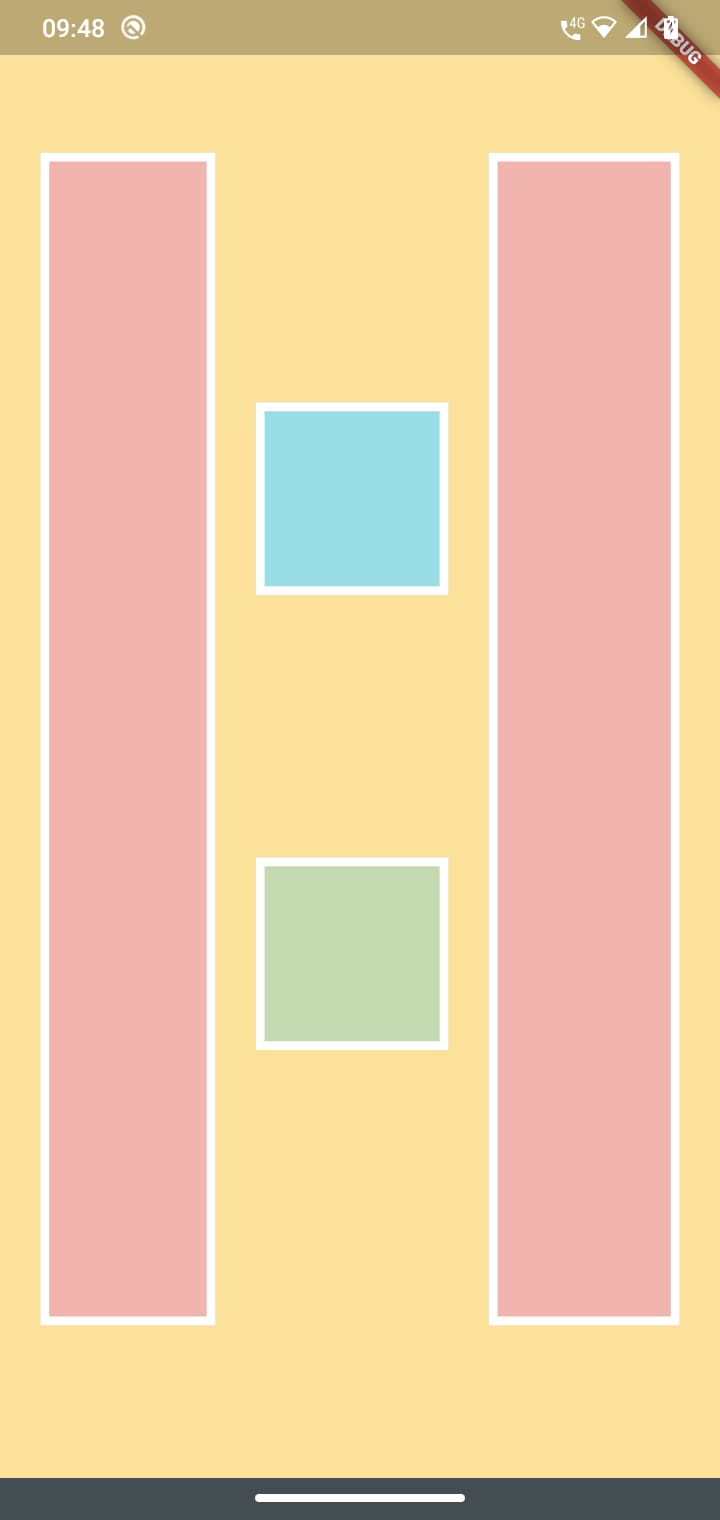
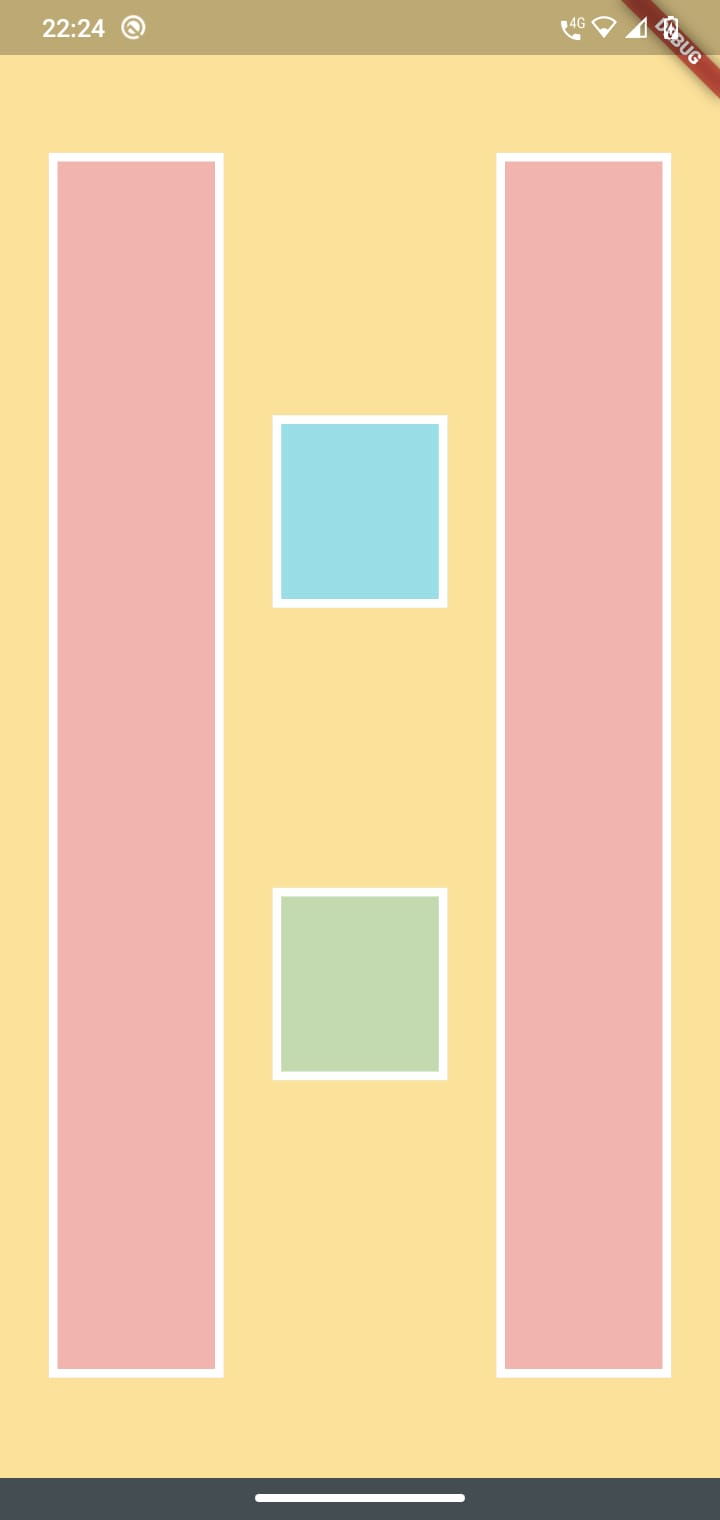
mudando margin das colunas da direita e esquerda

diff --git a/lib/custom_colum.dart b/lib/custom_colum.dart
@@ -3,7 +3,7 @@ import 'package:flutter/material.dart';
 class CustomColum extends StatelessWidget {
   const CustomColum(
       {Key? key,
-      this.margin = 30,
+      this.margin = 0,
       required this.width,
       required this.height,
       required this.color})

diff --git a/README.md b/README.md
@@ -15,4 +15,4 @@ flutter run
 
 ## Screenshot
 
-<img src="images/layout.jpeg" width="300" height="550">
+<img src="images/layout.jpeg" width="250" height="500">
